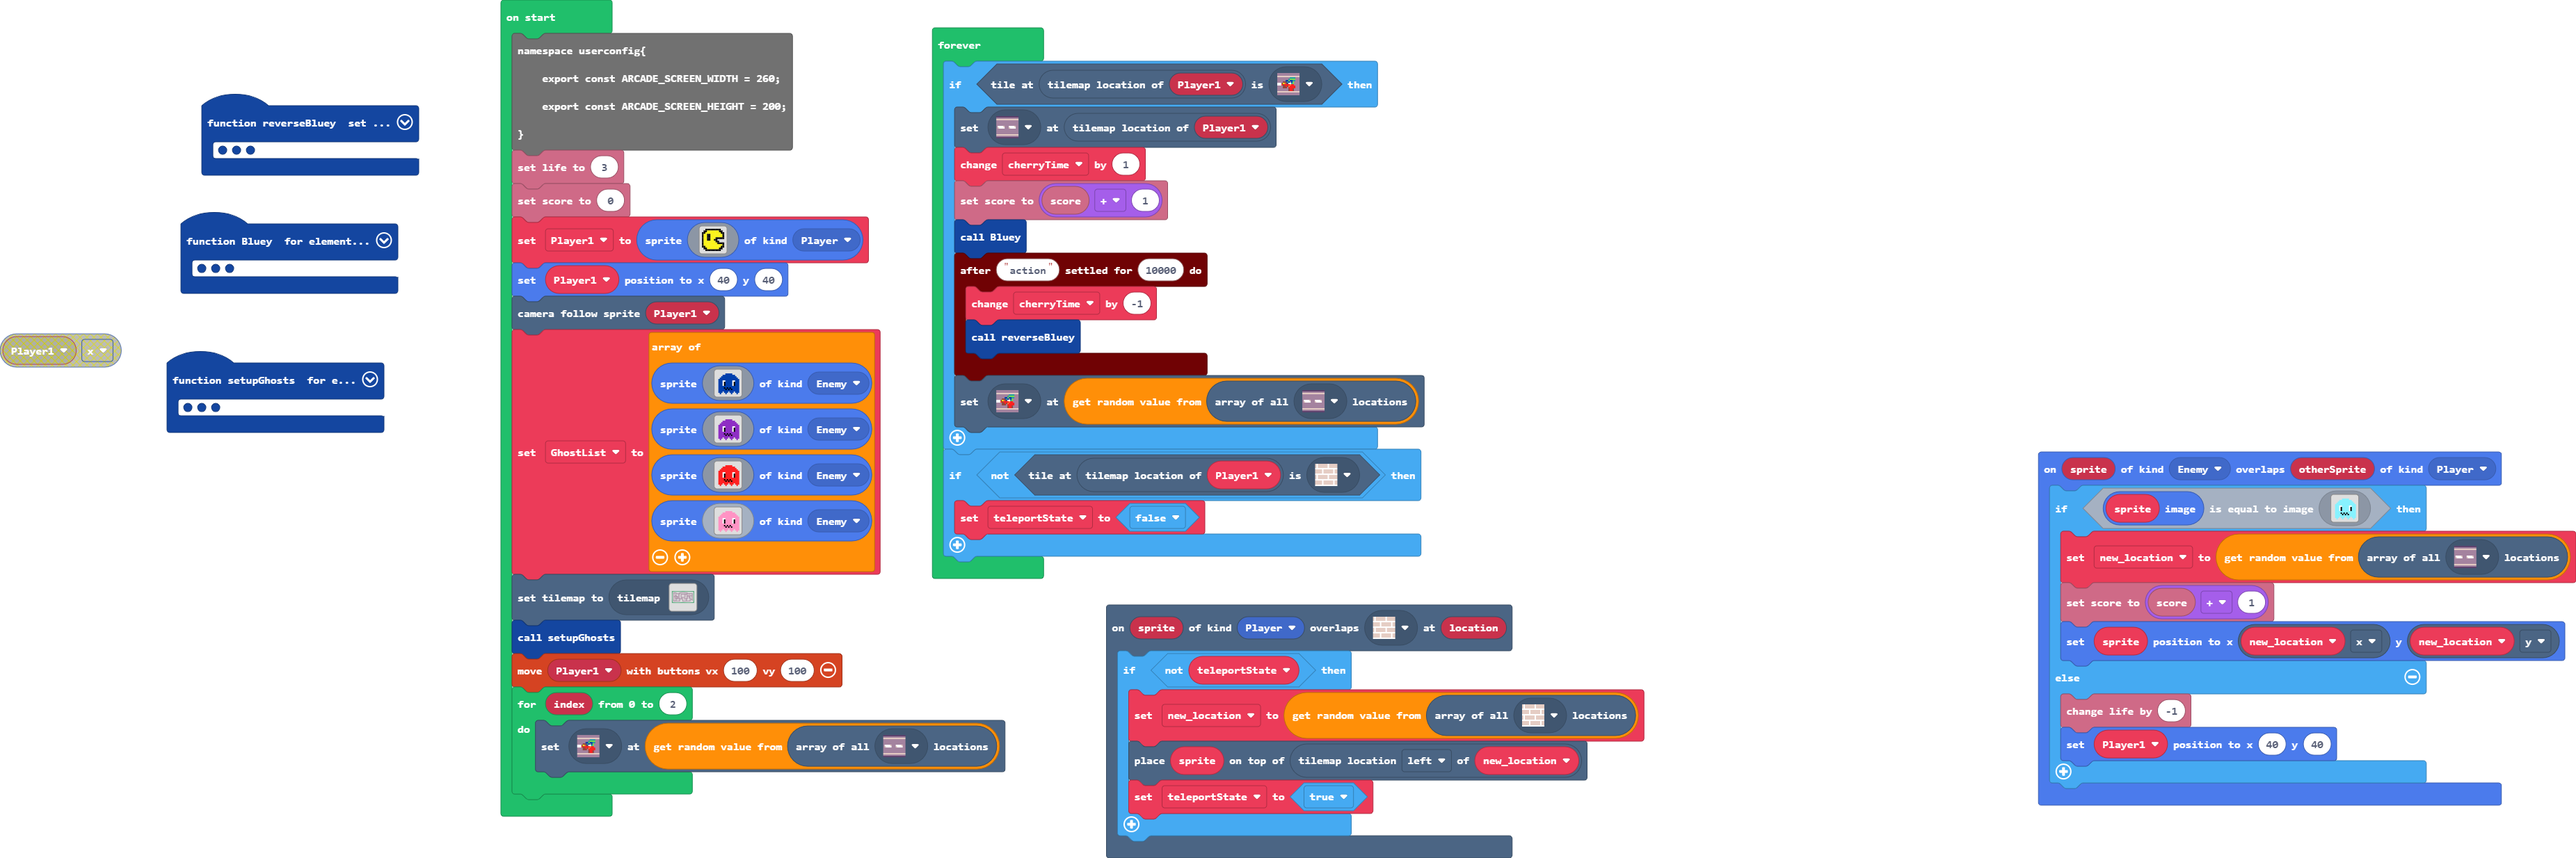
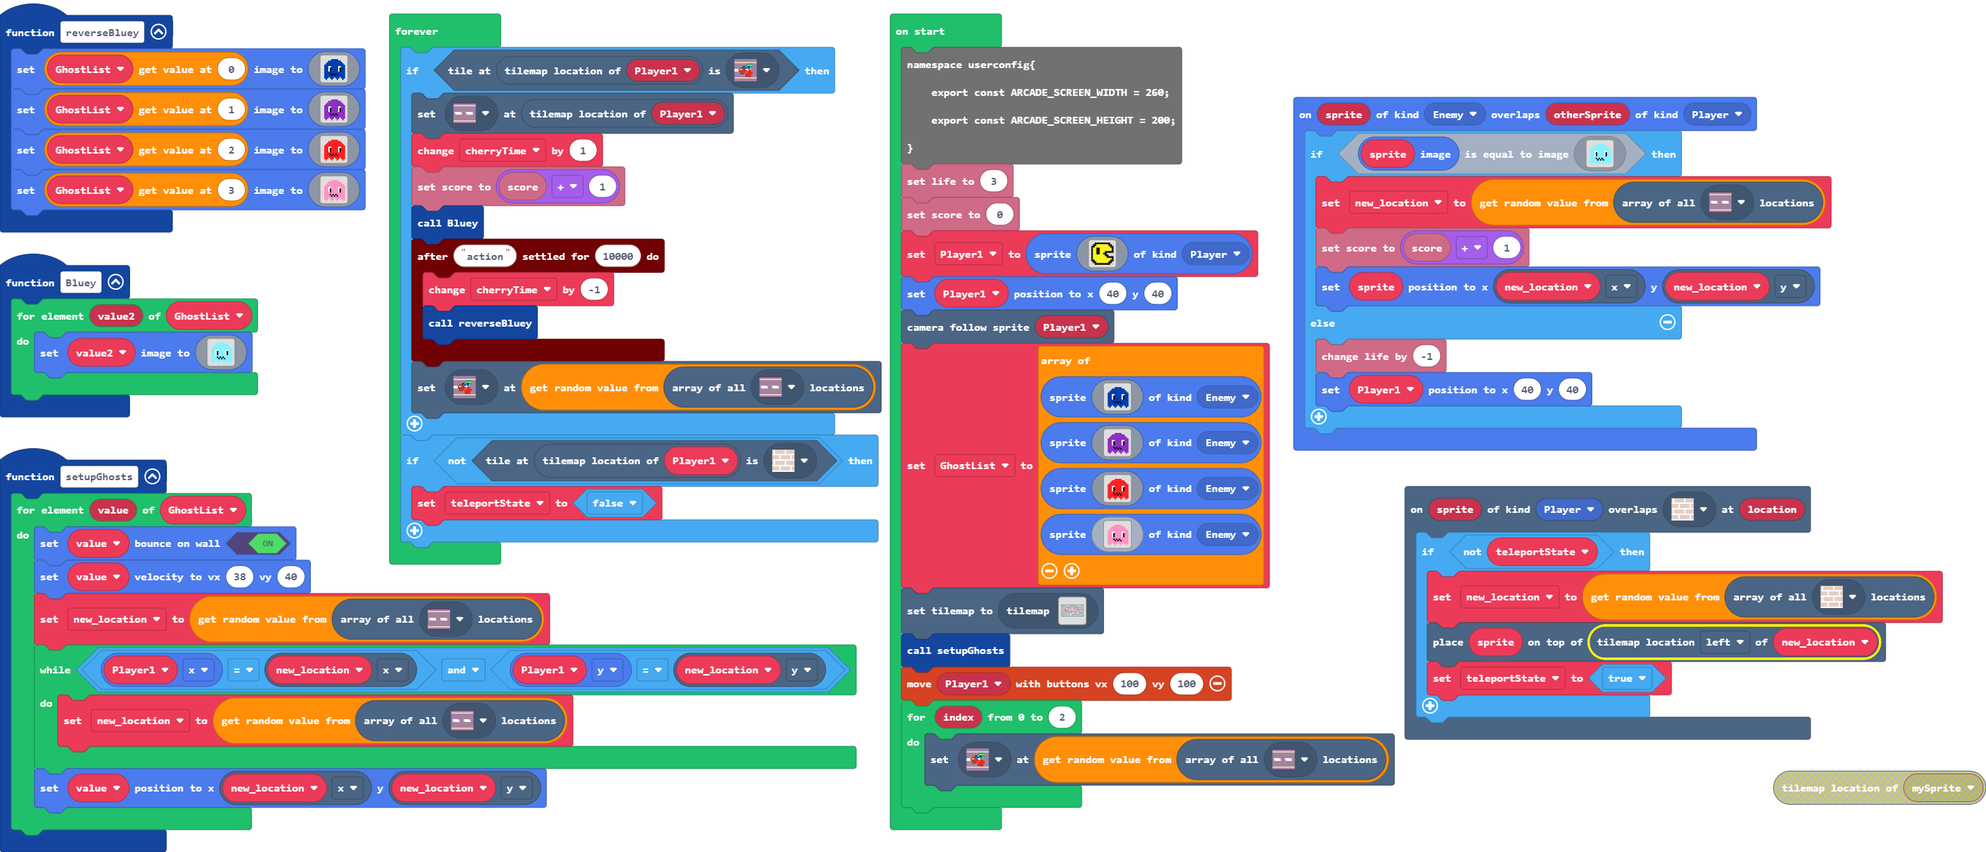
Fixing the teleportation

diff --git a/tilemap.g.ts b/tilemap.g.ts
@@ -9,25 +9,6 @@ namespace myTiles {
 
     helpers._registerFactory("tilemap", function(name: string) {
         switch(helpers.stringTrim(name)) {
-            case "level2":
[1 lines of base64/hex data omitted]
-222222222222222222222222222222
-222222222222222222222222222222
-22....2222...........222222222
-22.22......222222222........22
-22.222222.22.........22.222.22
-22....222.22.2222.22222.222.22
-22.22.222.22.2222.22........22
-22......2.22.2222.22.22.222.22
-22.2222.2.22......22.22.222.22
-22....2.2.222.222222.22.....22
-22.22...2............222222.22
-22.22.2222.222.2222.2222....22
-22.22.2222.222.2222.2222.22.22
-22.........222...........22.22
-222222222222222222222222222222
-222222222222222222222222222222
-`, [myTiles.transparency16,sprites.builtin.forestTiles0,sprites.vehicle.roadHorizontal,sprites.vehicle.roadVertical,sprites.vehicle.roadIntersection2,sprites.vehicle.roadTurn4,sprites.vehicle.roadTurn2,sprites.vehicle.roadIntersection1,sprites.vehicle.roadIntersection3,sprites.builtin.brick,sprites.vehicle.roadTurn3,sprites.vehicle.roadTurn1,sprites.vehicle.roadIntersection4], TileScale.Sixteen);
             case "level1":
             case "level1":return tiles.createTilemap(hex`1000100000000000000000000000000000000000000000000000000000000000000000000000000000000000000000000000000000000000000000000000000000000000000000000000000000000000000000000000000000000000000000000000000000000000000000000000000000000000000000000000000000000000000000000000000000000000000000000000000000000000000000000000000000000000000000000000000000000000000000000000000000000000000000000000000000000000000000000000000000000000000000000000000000000000000000000000000000000000000000000000000000000000000000000000000000000000`, img`
 . . . . . . . . . . . . . . . . 
@@ -47,6 +28,44 @@ namespace myTiles {
 . . . . . . . . . . . . . . . . 
 . . . . . . . . . . . . . . . . 
 `, [myTiles.transparency16], TileScale.Sixteen);
+            case "level3":
+            case "level3":return tiles.createTilemap(hex`1000100000000000000000000000000000000000000000000000000000000000000000000000000000000000000000000000000000000000000000000000000000000000000000000000000000000000000000000000000000000000000000000000000000000000000000000000000000000000000000000000000000000000000000000000000000000000000000000000000000000000000000000000000000000000000000000000000000000000000000000000000000000000000000000000000000000000000000000000000000000000000000000000000000000000000000000000000000000000000000000000000000000000000000000000000000000000`, img`
+. . . . . . . . . . . . . . . . 
+. . . . . . . . . . . . . . . . 
+. . . . . . . . . . . . . . . . 
+. . . . . . . . . . . . . . . . 
+. . . . . . . . . . . . . . . . 
+. . . . . . . . . . . . . . . . 
+. . . . . . . . . . . . . . . . 
+. . . . . . . . . . . . . . . . 
+. . . . . . . . . . . . . . . . 
+. . . . . . . . . . . . . . . . 
+. . . . . . . . . . . . . . . . 
+. . . . . . . . . . . . . . . . 
+. . . . . . . . . . . . . . . . 
+. . . . . . . . . . . . . . . . 
+. . . . . . . . . . . . . . . . 
+. . . . . . . . . . . . . . . . 
+`, [myTiles.transparency16], TileScale.Sixteen);
+            case "level2":
[1 lines of base64/hex data omitted]
+222222222222222222222222222222
+222222222222222222222222222222
+22....2222...........222222222
+22.22......222222222........22
+22.222222.22.........2.2222.22
+22....222.22.2222.2222..222.22
+22.22.222.22.2222.22........22
+22......2.22.2222.22.22.222.22
+22.2222.2.22......22.22.222.22
+22....2.2.222.222222.22.....22
+22.22...2............222222.22
+22.22.2222.222.2222.2222....22
+22.22.2222.222.2222.2222.2.222
+22.........222...........2..22
+222222222222222222222222222222
+222222222222222222222222222222
+`, [myTiles.transparency16,sprites.builtin.forestTiles0,sprites.vehicle.roadHorizontal,sprites.vehicle.roadVertical,sprites.vehicle.roadIntersection2,sprites.vehicle.roadTurn4,sprites.vehicle.roadTurn2,sprites.vehicle.roadIntersection1,sprites.vehicle.roadIntersection3,sprites.builtin.brick,sprites.vehicle.roadTurn3,sprites.vehicle.roadTurn1,sprites.vehicle.roadIntersection4], TileScale.Sixteen);
         }
         return null;
     })
